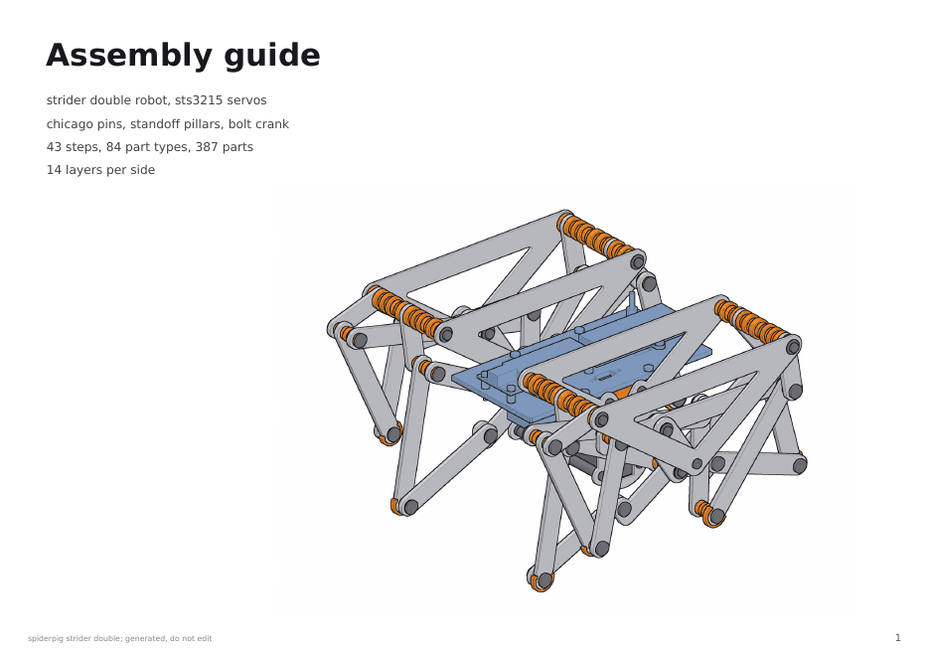
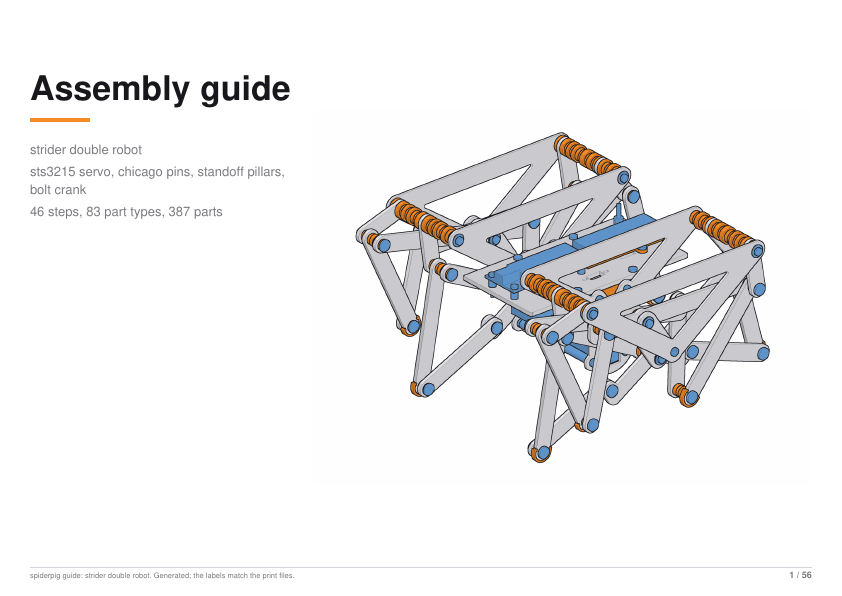
guide: numbered wiring legend, stage-free titles, labelled export test, final docs
The wiring diagram tags each link with a number and lists its cables under it;
a step without a title of its own takes its stage's short name. The export test
reads the labelled print names. GUIDE.md describes the final design with its
measurements; ARCHITECTURE notes the guide and the print names; the samples
are the final guide's pages.

Gate (w8-2a130c8, 6 designs): parts, plans, BOM and DXF identical; only the
print STL names (and the lines of print/parts.csv and ORDER.md that carry them)
differ, as intended.

diff --git a/spiderpig/guide/wiring.py b/spiderpig/guide/wiring.py
@@ -135,16 +135,22 @@ def draw(nodes: list[Node], links: list[tuple], left: list[str], path: Path,
             y = 60 + (k + 1) * usable / (len(idx) + 1) - bh / 2
             at[i] = (x, y)
     small, big = font(15, bold=False), font(18)
+    legend: dict[tuple[str, ...], int] = {}        # each set of cables: its number
     for i, j, cs in links:
         (x0, y0), (x1, y1) = at[i], at[j]
         a = (x0 + bw, y0 + bh / 2) if x1 > x0 else (x0 + bw / 2, y0 + bh)
         b = (x1, y1 + bh / 2) if x1 > x0 else (x1 + bw / 2, y1)
         d.line((*a, *b), fill=INK, width=4)
-        if cs:
+        if cs:      # a numbered tag on the link; the cables listed under the diagram
+            k = legend.setdefault(tuple(cs), len(legend) + 1)
             mx, my = (a[0] + b[0]) / 2, (a[1] + b[1]) / 2
-            text = "\n".join(c if len(c) <= 24 else c[:23] + "." for c in cs)
-            d.multiline_text((mx, my - 8), text, fill=(150, 80, 0), font=small,
-                             anchor="md", align="center")
+            d.ellipse((mx - 13, my - 13, mx + 13, my + 13), fill=(255, 255, 255),
+                      outline=(150, 80, 0), width=3)
+            d.text((mx, my), str(k), fill=(150, 80, 0), font=big, anchor="mm")
+    y = h - 40 - 24 * (len(legend) + (1 if left else 0))
+    for cs, k in legend.items():
+        d.text((60, y), f"{k}: " + "; ".join(cs), fill=(150, 80, 0), font=small)
+        y += 24
     for i, n in enumerate(nodes):
         x, y = at[i]
         fill = (253, 226, 196) if n.role in ("servo", "board") else (232, 236, 244)
@@ -162,5 +168,5 @@ def draw(nodes: list[Node], links: list[tuple], left: list[str], path: Path,
         d.multiline_text((x + bw / 2, y + 66), "\n".join(lines[:3]), fill=INK, font=small,
                          anchor="mm", align="center")
     if left:
-        d.text((60, h - 70), "Also: " + "; ".join(left), fill=INK, font=small)
+        d.text((60, y), "Also: " + "; ".join(left), fill=INK, font=small)
     img.save(path, compress_level=6)

diff --git a/tests/test_export.py b/tests/test_export.py
@@ -6,6 +6,7 @@ from __future__ import annotations
 import csv
 import json
 import math
+import re
 
 import ezdxf
 import pytest
@@ -58,8 +59,10 @@ def test_one_stl_per_printed_part_with_quantities(single_out):
     files = {r["file"] for r in rows}
     # the frame ties are bought standoffs and screws since 2026-10-04 (no printed halves);
     # the feet's TPU socks print
-    assert not any(f.startswith("tie_") for f in files)
-    assert any(f.endswith("_sock.stl") for f in files)
+    assert not any("tie_" in f for f in files)
+    assert any("_foot_sock_" in f for f in files)
+    # each named by its part label first (spiderpig.labels: the guide's bag labels)
+    assert all(re.match(r"P\d\d_[a-z_]+_\d+\.\dmm\.stl$", f) for f in files)
     # the pillars are bought standoffs and the crank laser-cut plates now: what prints is the
     # chassis's and the drive's (its horn spacer: the bolt crank's hub plates need the horn's
     # face on a layer boundary)
@@ -68,8 +71,9 @@ def test_one_stl_per_printed_part_with_quantities(single_out):
     by_file = {r["file"]: int(r["qty"]) for r in rows}
     # left and right side parts are one row each: every part is printed twice or more,
     # but the electronics deck's battery cradle, one per robot on the centre line
-    assert by_file["deck_cradle.stl"] == 1
-    assert all(q >= 2 for f, q in by_file.items() if f != "deck_cradle.stl")
+    cradle = next(f for f in by_file if "_battery_cradle_" in f)
+    assert by_file[cradle] == 1
+    assert all(q >= 2 for f, q in by_file.items() if f != cradle)
 
 
 @slow

diff --git a/spiderpig/construction/assembly.py b/spiderpig/construction/assembly.py
@@ -486,7 +486,12 @@ def _title(st: Stage, gops: list[Op], layer: int | None) -> str:
             return f"Layer {layer}"
         if layer is not None and layer >= 0:
             return f"Layer {layer}: {named[0].lower() + named[1:]}"
-    return named or {WIRING: "Bus cables"}.get(st.stage, st.title)
+    if named:
+        return named
+    if st.stage == WIRING:
+        return "Bus cables"
+    short = st.title.split(": ", 1)[-1]
+    return short[0].upper() + short[1:]
 
 
 def prose(order: tuple[Stage, ...] = ROBOT_ORDER) -> list[str]:

diff --git a/docs/ARCHITECTURE.md b/docs/ARCHITECTURE.md
@@ -1303,7 +1303,7 @@ holds its outputs, from the same sources and options, does nothing
 |---|---|---|
 | `klann.step` | the whole robot, one named, coloured product per part | 11.4 MB, 173 solids |
 | `klann.stl` | the whole robot as one binary mesh | 21.8 MB, 436,932 triangles |
-| `print/*.stl`, `print/parts.csv` | one STL per distinct printed part, with quantities, grams and filament; a `_mirrored.stl` only where a part is its twin's mirror image (`bom._proper_fit` tries a pure translation first, so a mirror-symmetric ring counts as the same part) | 16 parts and 1 mirrored |
+| `print/*.stl`, `print/parts.csv` | one STL per distinct printed part, named by its part label (`spiderpig.labels`, as the assembly guide's bag labels: P13_top_spacer_0.7mm.stl), with quantities, grams and filament; a `_mirrored.stl` only where a part is its twin's mirror image (`bom._proper_fit` tries a pure translation first, so a mirror-symmetric ring counts as the same part) | 16 parts and 1 mirrored |
 | `laser/<name>_sheet_<service>_<sheet>_<i>.dxf`, `laser/<name>_sheet_parts.csv` | the laser-cut parts packed onto sheets, one set per cutting service and sheet stock (`layout.save_sheets`) | 2 sheets of 300 × 300 mm |
 | `laser/parts/<service>_<sheet>/<part>_x<qty>.dxf`, `laser/parts/order.csv` | the same parts, one DXF per distinct part (blue `CUT` layer, R2007), with each file's material, thickness and quantity: SendCutSend and Ponoko take one part per file (`layout.save_parts`) | not in the snapshot |
 | `bom.csv`, `bom.md`, `bom.json` | the bill of materials | 11 purchase rows, at least $124.87 |
@@ -1312,6 +1312,8 @@ holds its outputs, from the same sources and options, does nothing
 `api.export` (and `spiderpig export`, the MCP's `export`) writes the formats a spec names
 (section 9.2); its `dxf` is the packed sheets only: `ORDER.md` and `laser/parts/` come
 from `spiderpig build`.
+
+**The assembly guide** (`spiderpig guide`, [GUIDE.md](agentlib/GUIDE.md)): `ASSEMBLY.pdf` and `ASSEMBLY.md` from the same fabrication, the steps from the constructions' `assembly` hooks and `construction.assembly.ROBOT_ORDER`, the part labels from `spiderpig.labels`, cached beside the fabrication.
 
 **DXF sheets** (`spiderpig/layout.py`): each laser part is cut through its mid-thickness,
 turned so its long axis runs along x, and offset by half its sheet's kerf where the

diff --git a/docs/agentlib/GUIDE.md b/docs/agentlib/GUIDE.md
@@ -161,26 +161,27 @@ off (`SPIDERPIG_FAB_CACHE=off`), there is no store, or a caller passes its own `
 import-linter layers beside `bake` and `build`.
 
 **Measured** on the default Strider double robot, 2026-10-08, on the shared 20-core box at
-load 17-18:
+load 11-18 (others' jobs):
 
 | run | time |
 |---|---|
-| cold, fabrication cached | 62-77 s |
-| warm, unchanged design | 0.8 s in the guide, 5.5 s wall with imports |
+| cold, no picture cached | 56 s, of which a fabrication 10 s (the fab key had just moved) |
+| a guide edit, pictures cached | 24 s |
+| warm, unchanged design | 0.6 s in the guide, 4.2 s wall with imports |
 
 Where the cold time went:
 
 | stage | time |
 |---|---|
-| fabricate, from the cache | 0.2-12 s |
-| meshes | 5 s |
-| labels' grouping | 9-10 s, overlapping the drawing |
-| pictures | 24-28 s on 4 workers |
-| PDF | 8-9 s |
+| fabricate | 0.2 s from the cache, 10 s afresh |
+| meshes | 4.5 s |
+| labels' grouping | 6.7 s, overlapping the drawing |
+| pictures (129: 46 steps, 82 thumbnails, the cover) | 20 s more on 4 workers |
+| PDF | 7 s |
 
-The first run also computes the code keys once, about 10 s. At normal load (3-6) the
-pictures took 39 s for 43 steps on 4 workers before the move to workers per picture, and
-the PDF 4-5 s. The 40 s cold target holds only on an unloaded box. Re-measure before quoting.
+The first run in a checkout also computes the code keys, about 10 s. A full-robot picture
+takes 2.7 s of one core, plus 1.2 s to choose its camera. The 40 s cold target, fabrication
+aside, holds at normal load (3-6), not at 15. Re-measure before quoting.
 
 **Tests** (`tests/test_guide.py`, sim tier).
 
